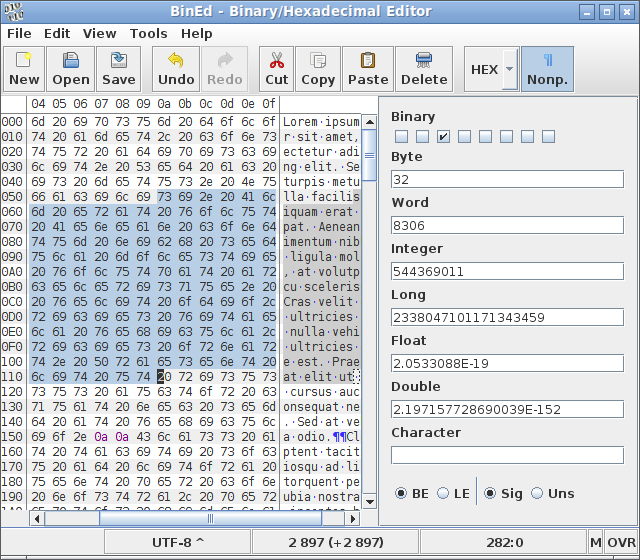
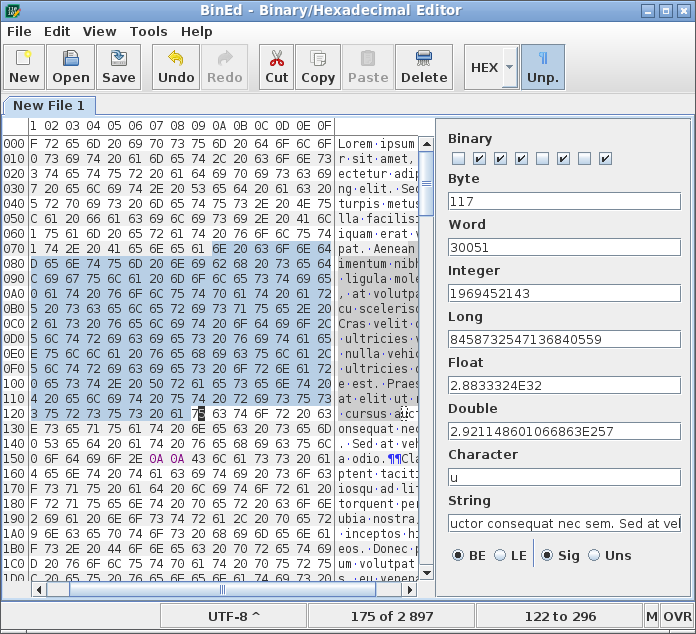
Bined 0.2.1 released

diff --git a/editor/pages/download.php b/editor/pages/download.php
@@ -8,6 +8,30 @@ function echoDownload($arr) {
 
 $old_releases = array();
 
+$ver = '0.2.0';
+$date = '2019-08-26';
+
+$old_releases[4][0]['name'] = 'Windows Installer';
+$old_releases[4][0]['ver'] = $ver;
+$old_releases[4][0]['date'] = $date;
+$old_releases[4][0]['icon'] = 'exe';
+$old_releases[4][0]['file'] = 'bined-'.$ver.'-win32.exe';
+$old_releases[4][1]['name'] = 'ZIP';
+$old_releases[4][1]['ver'] = $ver;
+$old_releases[4][1]['date'] = $date;
+$old_releases[4][1]['icon'] = 'zip';
+$old_releases[4][1]['file'] = 'bined-'.$ver.'.zip';
+$old_releases[4][2]['name'] = 'Debian Package';
+$old_releases[4][2]['ver'] = $ver;
+$old_releases[4][2]['date'] = $date;
+$old_releases[4][2]['icon'] = 'debian';
+$old_releases[4][2]['file'] = 'bined_'.$ver.'-1_all.deb';
+$old_releases[4][3]['name'] = 'Linux RPM Package';
+$old_releases[4][3]['ver'] = $ver;
+$old_releases[4][3]['date'] = $date;
+$old_releases[4][3]['icon'] = 'rpm';
+$old_releases[4][3]['file'] = 'bined-'.$ver.'-1.noarch.rpm';
+
 $ver = '0.1.3';
 $date = '2017-10-22';
 
@@ -90,16 +114,14 @@ $old_releases[0][0]['file'] = 'deltahex-editor-'.$ver.'.zip';
 
 <h2 id="latest_changes">Latest Changes</h2>
 <p>
-<ul><li>Renamed to BinEd</li>
-<li>Updated to newer version of library</li>
-<li>Support for half-size space</li>
-<li>Support for layout, theme and colors profiles</li>
-<li>Added support for different numerical bases in status bar</li>
-<li>Configurable address margin</li>
-<li>Context aware popup menu</li>
-<li>Go-to dialog position to support position from end</li>
-<li>Go-to dialog position to support different numerical bases</li>
-<li>Support for ENTER key in preview section</li>
+<ul><li>New app icon</li>
+<li>Support for multiple files / tabs</li>
+<li>Added string field in values panel (issue #8)</li>
+<li>Added templates for profiles</li>
+<li>Added insert data dialog</li>
+<li>Added files compare dialog</li>
+<li>Display the number of bytes selected</li>
+<li>Fixed issue with creating new file</li>
 </ul></p>
 
 <h2 id="development">Development Version</h2>
@@ -113,6 +135,10 @@ $old_releases[0][0]['file'] = 'deltahex-editor-'.$ver.'.zip';
 <h2 id="older_releases">Older Releases</h2>
 <table class="downloads">
 <tr><th>Release&nbsp;</th><th>Files&nbsp;</th></tr>
+<tr>
+  <td>BinEd <?php echo $old_releases[4][0]['ver']; ?></td>
+  <td><?php echoDownload($old_releases[4]); ?></td>
+</tr>
 <tr>
   <td>DeltaHex <?php echo $old_releases[3][0]['ver']; ?></td>
   <td><?php echoDownload($old_releases[3]); ?></td>

diff --git a/pages/news.php b/pages/news.php
@@ -4,7 +4,7 @@
 } ?>
 <p>Free and open source binary/hexadecimal viewer/editor and component written in Java.</p>
 <p>This is part of the <a href="http://exbin.org">ExBin Project</a>.</p>
-<p><img src="images/editor_screenshot.png" alt="Editor screenshot" title="Editor screenshot" class="center"/></p>
+<p><img src="images/editor_screenshot.png" alt="Editor screenshot" title="Editor screenshot" class="center" width="550"/></p>
 
 <h2 id="latest_comment">Latest User Comment</h2>
 <?php
@@ -44,6 +44,17 @@ if ($count == 0) {
 
 <h2 id="news">News</h2>
 <ul>
+<li><p><strong>2021-10-31:</strong> BinEd 0.2.1 Released</p>
+<ul><li>New app icon</li>
+<li>Support for multiple files / tabs</li>
+<li>Added string field in values panel (issue #8)</li>
+<li>Added templates for profiles</li>
+<li>Added insert data dialog</li>
+<li>Added files compare dialog</li>
+<li>Display the number of bytes selected</li>
+<li>Fixed issue with creating new file</li>
+</ul></li>
+
 <li><p><strong>2021-08-29:</strong> Bined NetBeans Plugin 0.2.2 Released</p>
 <ul><li>Minor GUI improvements</li>
 <li>Switched to Gradle building</li>
@@ -69,17 +80,6 @@ if ($count == 0) {
 <li><p><strong>2020-07-30:</strong> BinEd IntelliJ Plugin 0.2.3 Released</p>
 <ul><li>Fixed debugger array support for PHP</li>
 <li>Added binary file type</li>
-</ul></li>
-
-<li><p><strong>2020-01-25:</strong> BinEd IntelliJ Plugin 0.2.2 Released</p>
-<ul><li>Minor GUI improvements</li>
-<li>Support for multiple decoders in debugging view</li>
-<li>Display the number of bytes selected</li>
-<li>Fixed opening via dialog crashes IntelliJ (mac)</li>
-<li>Fixed "HIDE_DEFAULT_EDITOR is supported only for DumbAware providers" error message</li>
-<li>Fixed NullPointerException when trying to hex-view bytearray in Debug mode</li>
-<li>Fixed Editor stops responding when I use Find</li>
-<li>Fixed Cursor position is lost if you switch tabs</li>
 </ul></li>
 
 </ul>

diff --git a/pages/older-news.php b/pages/older-news.php
@@ -1,6 +1,17 @@
 <div id="content">
 <h1 id="older_news">Older News</h1>
 <ul>
+<li><p><strong>2020-01-25:</strong> BinEd IntelliJ Plugin 0.2.2 Released</p>
+<ul><li>Minor GUI improvements</li>
+<li>Support for multiple decoders in debugging view</li>
+<li>Display the number of bytes selected</li>
+<li>Fixed opening via dialog crashes IntelliJ (mac)</li>
+<li>Fixed "HIDE_DEFAULT_EDITOR is supported only for DumbAware providers" error message</li>
+<li>Fixed NullPointerException when trying to hex-view bytearray in Debug mode</li>
+<li>Fixed Editor stops responding when I use Find</li>
+<li>Fixed Cursor position is lost if you switch tabs</li>
+</ul></li>
+
 <li><p><strong>2019-09-04:</strong> BinEd NetBeans Plugin 0.2.1 Released</p>
 <ul><li>Action to show debug variables as binary data</li>
 <li>Minor GUI improvements</li>

diff --git a/download/download-list.php b/download/download-list.php
@@ -3,10 +3,10 @@
     $result = array();
     if ($group == 'editor' || is_null($group)) {
       $variants = array();
-      $stb_ver = '0.2.0';
-      $stb_date = '2019-08-26';
+      $stb_ver = '0.2.1';
+      $stb_date = '2021-10-31';
       $dev_ver = '0.2.1';
-      $dev_date = '2021-03-15';
+      $dev_date = '2021-10-21';
 
       $variants['stb'][0]['name'] = 'Windows Installer';
       $variants['stb'][0]['ver'] = $stb_ver;
@@ -117,8 +117,8 @@
       $variants = array();
       $stb_ver = '0.2.2';
       $stb_date = '2021-08-29';
-      $dev_ver = '0.2.2';
-      $dev_date = '2021-08-28';
+      $dev_ver = '0.2.3';
+      $dev_date = '2021-10-19';
 
       $variants['stb'][0]['name'] = 'Plugin';
       $variants['stb'][0]['ver'] = $stb_ver;

diff --git a/pages/participate.php b/pages/participate.php
@@ -14,10 +14,8 @@
 <li>Contact: exbinproject@<span style="display:none">(at)</span>gmail.com</li></ul>
 
 <h2 id="development-plan">Current Development Plan</h2>
-<p>Plan for version 0.2.1 is to implement some of the following improvements:</p>
+<p>Plan for version 0.2.2 is to implement some of the following improvements:</p>
 <ul>
-  <li>Add byte-to-byte binary diff</li>
-  <li>Add insert data action</li>
   <li>Add bookmarking support</li>
   <li>Allow filesystem swapping for memory handling</li>
   <li>Add support for macro operations</li>

diff --git a/pages/donate.php b/pages/donate.php
@@ -15,7 +15,7 @@
 </form>
 
 <h2>Donations</h2>
-<p>List of donations (to date 2021/08):</p>
+<p>List of donations (to date 2021/10):</p>
 
 <p>-</p>
 
